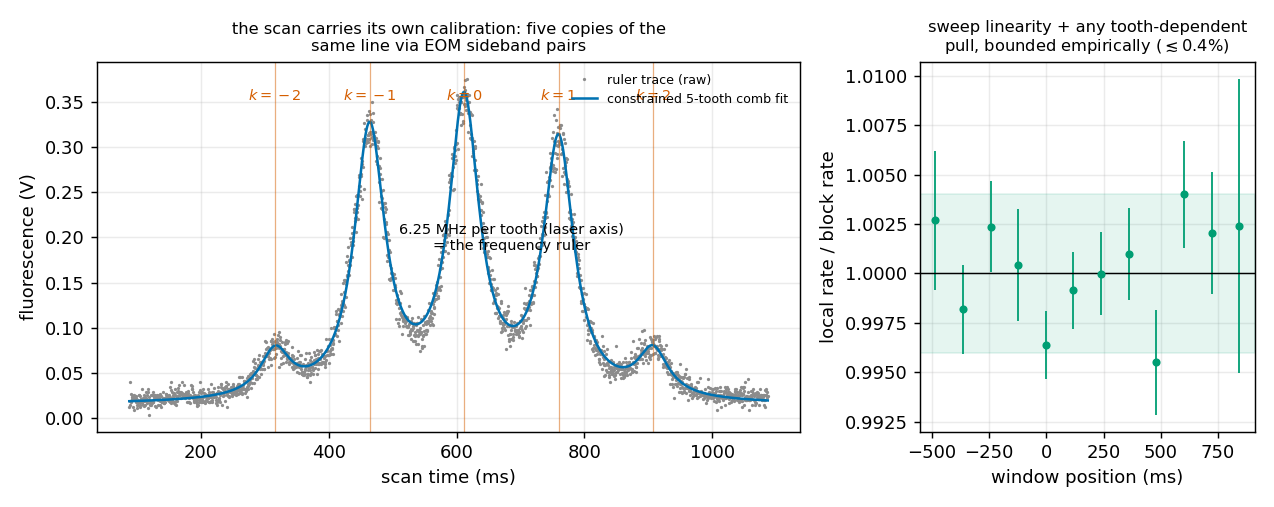
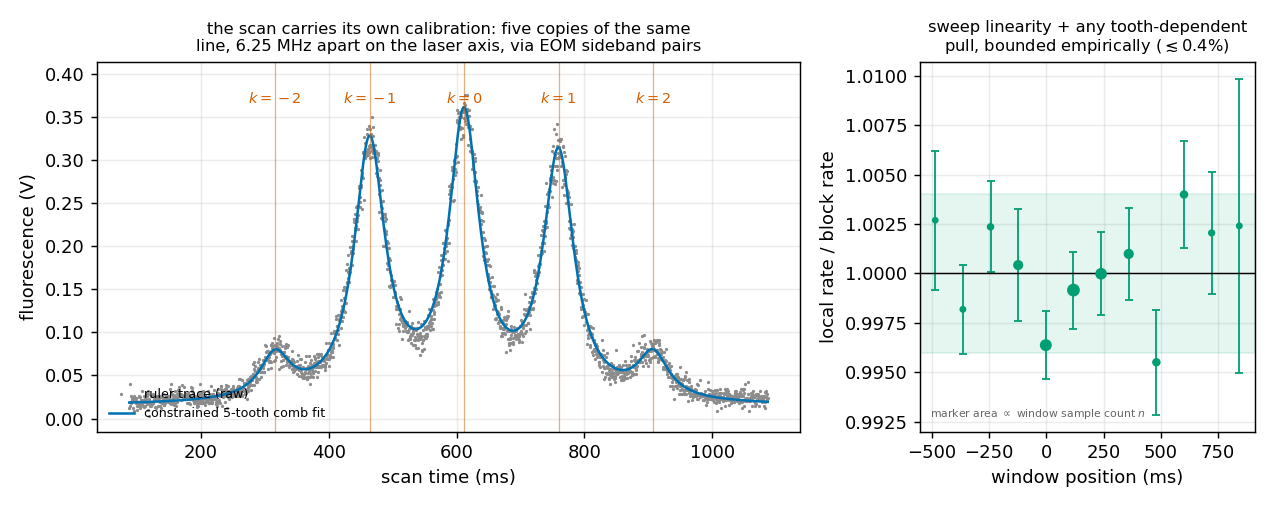
readme: frame the fixed-lock follow-up as proposed, fix sourcing and figure issues
Full editorial pass on README.md ahead of external readers (Lan, Brion,
Zohreh, Sile):

- Present the fixed-lock follow-up session as a proposal to make the case
  for, not a scheduled fact -- it has not been discussed with Sile yet.
- Fix missing 1/2 subscripts in the 6S -> 5P -> 5S decay chain.
- Temperature sweep was at a fixed 225 mW, and spans 70-130 C (the 130 C
  point is shared with the power sweep's top condition), not 70-110 C as
  previously stated -- both now explicit, sourced from docs/DATA.md.
- Break down the 297 traces (159 composite-line + 105 frequency-ruler +
  33 quarantined/discarded) instead of a bare, unexplained count.
- Fix a sourcing error: the w0=64 um figure is Nieddu 2019's direct
  measurement on a same-lineage apparatus, not a result of this analysis
  -- the prior parenthetical wrongly implied otherwise.
- Generalize 'knife-edge' to 'beam-profile measurement (knife-edge and/or
  camera)' throughout -- a camera-based profile is equally valid and the
  method should not be prescribed narrower than it needs to be.
- Cut several overwritten, aphoristic sentences ('a bound is a result, not
  a failed measurement', 'is itself a result', 'the backbone of the
  analysis', etc.) in favor of plainer statements of the same content.

fig8_ruler.png (scripts/make_figures.py):
- Left panel: k-tooth labels were cramped against the plot's top edge,
  colliding with the legend at the default 'upper right' anchor (visible
[…]

diff --git a/scripts/make_figures.py b/scripts/make_figures.py
@@ -440,31 +440,39 @@ def fig_ruler():
                       fit["heights"], fit["b0"], fit["b1"]),
             "-", color="#0072B2", lw=1.4, label="constrained 5-tooth comb fit")
     ymax = max(fit["heights"]) + fit["b0"]
+    ax.set_ylim(top=ymax * 1.22)
     for n in range(-2, 3):
         tc = fit["t0_ms"] + n * fit["delta_ms"]
         ax.axvline(tc, color="#D55E00", lw=0.7, alpha=0.5)
-        ax.annotate(f"$k={n}$", xy=(tc, ymax * 1.04), ha="center", fontsize=8,
+        ax.annotate(f"$k={n}$", xy=(tc, ymax * 1.08), ha="center", fontsize=8,
                     color="#D55E00")
-    ax.annotate("6.25 MHz per tooth (laser axis)\n= the frequency ruler",
-                xy=(fit["t0_ms"] + 0.5 * fit["delta_ms"], ymax * 0.55),
-                ha="center", fontsize=8)
     ax.set_xlabel("scan time (ms)")
     ax.set_ylabel("fluorescence (V)")
-    ax.set_title("the scan carries its own calibration: five copies of the\n"
-                 "same line via EOM sideband pairs", fontsize=9)
-    ax.legend(fontsize=7, loc="upper right")
+    ax.set_title("the scan carries its own calibration: five copies of the same\n"
+                 "line, 6.25 MHz apart on the laser axis, via EOM sideband pairs",
+                 fontsize=9)
+    ax.legend(fontsize=7, loc="lower left", framealpha=1.0)
 
     nl = _rows("ruler_nlmap")
     pos = np.array([float(r["pos_ms"]) for r in nl])
     rr = np.array([float(r["rate_rel"]) for r in nl])
     er = np.array([float(r["rate_rel_err"]) for r in nl])
-    ax2.errorbar(pos, rr, yerr=er, fmt="o", ms=3.5, color="#009E73", lw=1)
+    n_win = np.array([int(r["n"]) for r in nl])
+    # Marker area scales with the window's sample count n: edge windows have
+    # fewer contributing traces, hence larger shot-noise-like error bars
+    # (er ~ 1/sqrt(n)) -- made visible rather than left looking anomalous.
+    sizes = 12 + 38 * (n_win / n_win.max())
+    ax2.errorbar(pos, rr, yerr=er, fmt="none", ecolor="#009E73", elinewidth=1,
+                 capsize=2, zorder=2)
+    ax2.scatter(pos, rr, s=sizes, color="#009E73", edgecolor="none", zorder=3)
     ax2.axhline(1.0, color="k", lw=0.8)
     ax2.axhspan(0.996, 1.004, color="#009E73", alpha=0.10)
     ax2.set_xlabel("window position (ms)")
     ax2.set_ylabel("local rate / block rate")
     ax2.set_title("sweep linearity + any tooth-dependent\npull, bounded "
                   r"empirically ($\lesssim$0.4%)", fontsize=9)
+    ax2.text(0.03, 0.03, "marker area $\\propto$ window sample count $n$",
+             transform=ax2.transAxes, fontsize=6, color="0.4", va="bottom")
     _save(fig, "fig8_ruler.png")
 
 

diff --git a/README.md b/README.md
@@ -2,7 +2,8 @@
 
 A physics-based forward-model analysis of the rubidium **5S₁/₂ → 6S₁/₂** two-photon
 transition at **993 nm** — Doppler-free spectroscopy in a hot vapour cell. Data taken at OIST
-in 2025; a fixed-lock follow-up session is specified in [`docs/PLAN.md`](docs/PLAN.md).
+in 2025; a fixed-lock follow-up session is proposed and specified in
+[`docs/PLAN.md`](docs/PLAN.md).
 
 <p align="center">
   <img src="figures/fig0_spectrum.png" width="560" alt="A representative fitted line">
@@ -15,7 +16,8 @@ residuals. The total width is ≈ 5.2 MHz and the residuals sit at the noise flo
 > **In one sentence:** from a 2025 dataset taken with a drifting laser lock, we
 > extract what lives in the *shape* of the line — collisional
 > broadening, laser width, the power-dependent light shift — as **bounds**,
-> and lay out the fixed-lock measurements that turn each bound into a number.
+> and lay out a proposed set of fixed-lock measurements that would turn each
+> bound into a number.
 
 **Where to go next:** the big picture (goals, prior art, what each future
 measurement adds) → [`docs/BIG_PICTURE.md`](docs/BIG_PICTURE.md) ·
@@ -35,30 +37,32 @@ collapsing the ~500 MHz thermal smear to a line a few MHz wide:
 
 $$\nu\left(1 + \tfrac{v}{c}\right) + \nu\left(1 - \tfrac{v}{c}\right) = 2\nu$$
 
-The 6S population is read out through the 795 nm fluorescence of the
-6S → 5P₁/₂ → 5S cascade. Four hyperfine components are recorded across a
-temperature sweep (70–110 °C) and a power sweep (25–225 mW at 130 °C) — 297 clean
-traces in all.
+The 6S₁/₂ population is read out through the 795 nm fluorescence of the
+6S₁/₂ → 5P₁/₂ → 5S₁/₂ cascade. Four hyperfine components are recorded across a
+temperature sweep (70–130 °C at 225 mW) and a power sweep (25–225 mW at 130 °C) —
+297 traces in all: 159 composite-line traces and 105 frequency-ruler calibration
+traces, plus 33 quarantined or discarded (full census in
+[`docs/DATA.md`](docs/DATA.md)).
 
-## Why this dataset is unusual: shapes without centres
+## Shapes without centres
 
-The 2025 data were taken with a **slowly drifting lock** (~MHz/min). That has one
-consequence:
+The 2025 data were taken with a **slowly drifting lock** (~MHz/min), which has
+one consequence:
 
 - absolute line **centres are lost** (drift moves them scan to scan), but
-- line **shapes survive intact**.
+- line **shapes are preserved**.
 
-So the archive delivers what lives in the *shape* of a line —
-widths, power-law scalings, asymmetry — as **bounds and nulls**, while the absolute
-shifts wait for a stable lock. Being honest about that split is the backbone of the
-analysis, and it is why the results below are bounds rather than measurements.
+So the archive reports what the *shape* of a line carries — widths, power-law
+scalings, asymmetry — as **bounds and nulls**, while the absolute shifts wait
+for a stable lock. This split determines the structure of the results below:
+bounds now, with a proposed fixed-lock follow-up (below) to convert each into
+a number.
 
-A bound is a result, not a failed measurement: an upper bound excludes every
-model that predicts more, and each bound here is the sensitivity target a
-follow-up session has to beat — the fixed-lock plan is specified against these
-numbers. The width data are already sensitive at the physical scale (the
-AC-Stark bound sits just above its prediction), and the 95% constructions are
-validated by injection-recovery
+An upper bound is a genuine result: it excludes every model that predicts
+more, and each bound here would set the sensitivity target a follow-up
+session needs to beat. The width data are already sensitive at the physical
+scale (the AC-Stark bound sits just above its prediction), and the 95%
+constructions are validated by injection-recovery
 ([methods §4.11](docs/methods/06_the_statistics.md)), not assumed.
 
 The chain from raw trace to quoted bound — each stage a runnable script, each
@@ -96,17 +100,16 @@ so each is reported as a bound together with the fixed-lock session measurement 
 | Quantity | 2025 result | Type | Lifted by |
 |---|---|---|---|
 | Collisional self-broadening **β_self** | ≲ 0.2–0.4 MHz per 10¹² cm⁻³ (95% per peak) | bound | same-session 150–170 °C points |
-| 2025 laser linewidth **σ_laser** | ≈ 0.8 MHz at the w₀ prior (0.4–1.1 over the open w₀) | bound | knife-edge w₀ |
+| 2025 laser linewidth **σ_laser** | ≈ 0.8 MHz at the w₀ prior (0.4–1.1 over the open w₀) | bound | beam-profile w₀ |
 | AC-Stark coefficient **S₀(225 mW)** | < 0.63 MHz (95%, profile likelihood; predicted 0.59) | bound | fixed lock + tighter focus |
 | Power scaling | width flat; amplitude ∝ P² | confirmed prediction | — |
-| Beam waist **w₀** | ≈ 50 µm (prior; direct waist ≈ 64 µm) | open | knife-edge measurement |
+| Beam waist **w₀** | ≈ 50 µm (prior; Nieddu 2019 measured 64 µm directly on the same-lineage apparatus) | open | beam-profile measurement |
 
-**β_self is a bound, not a measurement — and the data show why.** The fitted
-collisional width barely grows with density (below), while a real binary-collision
-width must grow *linearly*. So the fitted width is a residual floor, not resolved
-collisions — and a naive fit that reports a "detection" here is reading a floor as
-a signal. Demonstrating that the drifting lock *required* this care is
-itself a result.
+**The fitted collisional width behaves like a floor, not a measurement.** It
+barely grows with density (below), while a real binary-collision width must
+grow *linearly*. So the fitted width is a residual floor rather than resolved
+collisions, and reporting it as a "detection" would misread a floor as a
+signal — which is why β_self is quoted as a bound.
 
 <p align="center">
   <img src="figures/fig6_gamma_floor.png" width="560" alt="The lever test: the collisional width is a floor">
@@ -123,8 +126,7 @@ for a fixed-lock session. The S₀ bound and its prediction are independent by
 construction: the bound uses only the width-vs-power data (no w₀ enters),
 while the predicted 0.59 MHz is the computed polarizability at the beam
 geometry's w₀ prior, with the retro ratio ρ=1 asserted (its in-situ measurement
-is a fixed-lock-session task) — fixed before the fit and never an input to it. Their
-proximity is a test passed, not a tuning.
+is a fixed-lock-session task) — fixed before the fit and never an input to it.
 
 <p align="center">
   <img src="figures/fig2_power_sweep.png" width="720" alt="Power sweep: width flat, amplitude proportional to P squared">
@@ -157,9 +159,10 @@ The transit width and the laser width both depend on the beam waist, and the
 archive cannot separate them — a tighter waist means more transit broadening and
 less room for laser width, and vice versa. The observed ≈ 5.2 MHz line is
 reproduced anywhere from w₀ ≈ 20 µm (laser width → 0) up to ≈ 65 µm (laser ~1.1 MHz).
-Only a direct beam-profile ("knife-edge") measurement collapses this — which is
-why every absolute number above is w₀-conditional, and why it is the first thing
-a fixed-lock session fixes. What each assumption moves, quantity by quantity, is
+Only a direct beam-profile measurement (a knife-edge scan, a camera beam
+profiler, or both) collapses this — which is why every absolute number above
+is w₀-conditional, and why it is the first thing a proposed fixed-lock session
+would fix. What each assumption moves, quantity by quantity, is
 tabulated live from the result CSVs in [`docs/RESULTS.md`](docs/RESULTS.md)
 ("Sensitivity at a glance").
 
@@ -169,14 +172,17 @@ tabulated live from the result CSVs in [`docs/RESULTS.md`](docs/RESULTS.md)
 
 ## What a follow-up session would add
 
-- **A fixed-lock session.** A stable lock returns the absolute centres, and a
-  knife-edge measures w₀ — turning the bounds above into the first measured 5S–6S
-  AC-Stark and collisional self-shift coefficients. With power capped at 225 mW,
-  the intensity axis comes from the waist instead (a telescope gives two working
-  waists spanning a ×16 intensity range), and a same-session 150–170 °C extension
-  gives β_self a real density lever. The knife-edge alone is worth a visit: it needs
-  only the beam, and it retroactively sharpens this archive. Full specification:
-  [`docs/PLAN.md`](docs/PLAN.md) §8.
+- **A proposed fixed-lock session** (not yet scheduled — this repository is the
+  case for why it would be worth doing). A stable lock would return the
+  absolute centres, and a direct beam-profile measurement (knife-edge and/or
+  camera) would pin w₀ — turning the bounds above into the first measured
+  5S–6S AC-Stark and collisional self-shift coefficients. With power capped at
+  225 mW, the intensity axis would come from the waist instead (a telescope
+  gives two working waists spanning a ×16 intensity range), and a same-session
+  150–170 °C extension would give β_self a real density lever. The
+  beam-profile measurement alone would be a small ask — it needs only the
+  beam — and would retroactively sharpen this archive even on its own. Full
+  specification: [`docs/PLAN.md`](docs/PLAN.md) §8.
 - **Optical nanofibre (Paper 2).** The same ramp law tested in the evanescent field
   at a fibre surface, where an atom–surface potential and the "pushing dip"
   (Gokhroo et al., 2022) ride on the lineshape.
@@ -207,7 +213,7 @@ every document quotes *that* value — so a re-analysis that moves a number can
 never leave a stale copy behind unnoticed. To change a headline number: re-run
 its producer, then run the suite; it names any document still out of step.
 
-The **figures** carry the same discipline: `make_figures.py` stamps a fingerprint
+The **figures** follow the same rule: `make_figures.py` stamps a fingerprint
 of the results CSVs into each PNG's metadata, and `tests/test_figures_fresh.py`
 fails if a committed figure was drawn from stale results (the fix is to re-run
 `make_figures.py`). The check reads a hash in the PNG, not pixels, so it is
@@ -239,5 +245,6 @@ docs/       methods.md (index) + methods/ (8 ordered chapters: the full
   established / open) so nothing reads as more certain than it is; the same tags
   drive the machine-readable `status` column on every results CSV.
 - **Physics constants and analysis choices are separated** (`constants.py` vs
-  `config.py`); repeat counts come from `MANIFEST.csv`, never from filenames;
-  data quality cuts are decided before fitting, never from the results.
+  `config.py`); repeat counts are read from `MANIFEST.csv` rather than
+  inferred from filenames, and data-quality cuts are fixed before fitting
+  rather than chosen afterward.